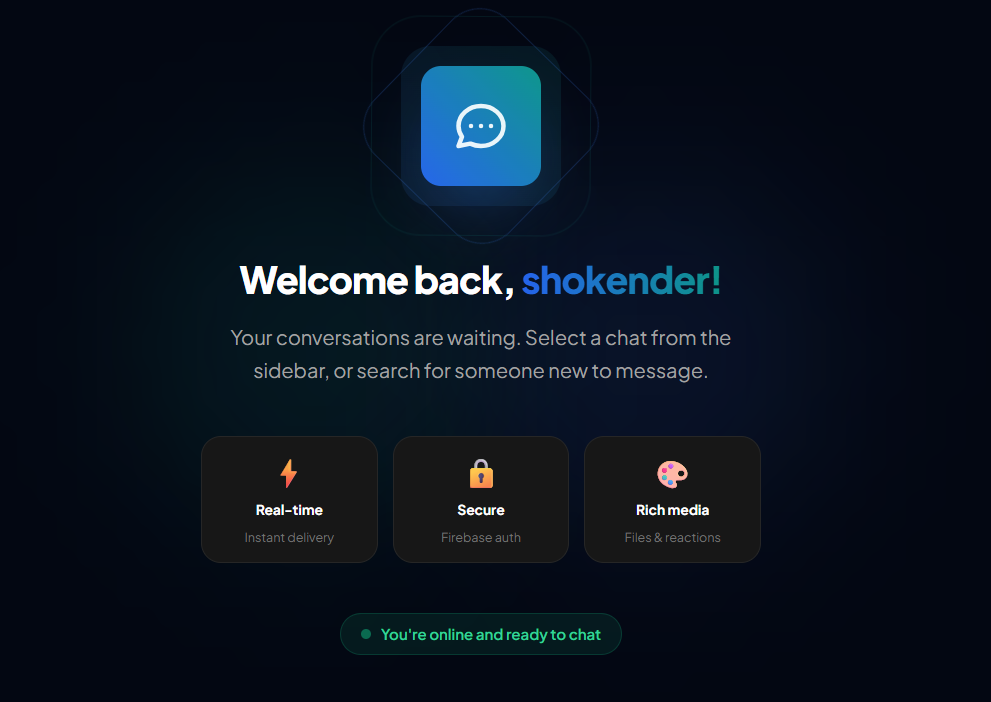
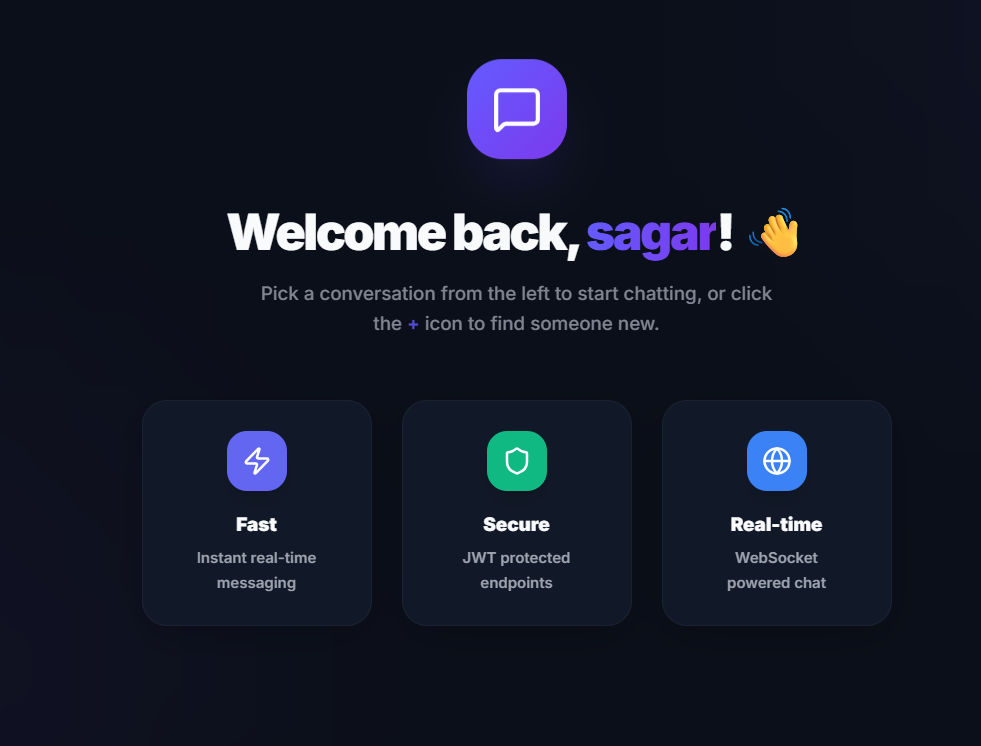
Update project details and replace ConvoX image

diff --git a/projects.html b/projects.html
@@ -279,34 +279,6 @@
                 </div>
             </div>
             <div class="grid grid-cols-1 md:grid-cols-2 gap-8">
-                <!-- KickSense -->
-                <div class="project-card bg-white/10 backdrop-blur-lg rounded-lg p-4 shadow-lg hover:shadow-2xl transition-all duration-300 transform hover:-translate-y-1 border border-transparent hover:border-[#f8e1e4] relative overflow-hidden group"
-                    data-aos="fade-up">
-                    <div
-                        class="absolute inset-0 bg-gradient-to-r from-transparent via-white/20 to-transparent -translate-x-full group-hover:translate-x-full transition-transform duration-1000">
-                    </div>
-                    <div
-                        class="thumbnail-container relative overflow-hidden rounded-lg mb-4 group-hover:shadow-md transition-all duration-300">
-                        <img src="assets/images/chatbot (1).jpg" alt="KickSense Project"
-                            class="w-full h-48 object-cover rounded-lg transform group-hover:scale-105 transition-transform duration-500">
-                        <div
-                            class="absolute inset-0 bg-gradient-to-t from-black/50 to-transparent opacity-0 group-hover:opacity-100 transition-opacity duration-300">
-                        </div>
-                    </div>
-                    <h2
-                        class="text-xl font-semibold mb-2 text-[#2d3748] group-hover:text-[#1a202c] transition-colors duration-300">
-                        KickSense</h2>
-                    <p class="text-gray-600 mb-2 group-hover:text-gray-700 transition-colors duration-300">Full-stack
-                        sneaker price tracking platform with real-time alerts</p>
-                    <div class="flex gap-3 flex-wrap">
-                        <button class="view-details-btn" data-project="kicksense">View Details</button>
-                        <a href="https://github.com/shoken-der/KickSense-Full-Stack-Sneaker-Price-Tracking-Platform"
-                            target="_blank" rel="noopener noreferrer" class="view-details-btn flex items-center gap-2">
-                            <i class="fab fa-github"></i> GitHub
-                        </a>
-                    </div>
-                </div>
-
                 <!-- Bank Account Console -->
                 <div class="project-card bg-white/10 backdrop-blur-lg rounded-lg p-4 shadow-lg hover:shadow-2xl transition-all duration-300 transform hover:-translate-y-1 border border-transparent hover:border-[#f8e1e4] relative overflow-hidden group"
                     data-aos="fade-up" data-aos-delay="300">
@@ -323,9 +295,9 @@
                     </div>
                     <h2
                         class="text-xl font-semibold mb-2 text-[#2d3748] group-hover:text-[#1a202c] transition-colors duration-300">
-                        Bank Account Console</h2>
-                    <p class="text-gray-600 mb-2 group-hover:text-gray-700 transition-colors duration-300">Simulates
-                        Simple Bank Account Facilities using OOPS</p>
+                        BankiFy</h2>
+                    <p class="text-gray-600 mb-2 group-hover:text-gray-700 transition-colors duration-300">Core banking
+                        backend API using Spring Boot, REST, and JPA</p>
                     <div class="flex gap-3 flex-wrap">
                         <button class="view-details-btn" data-project="jenkins">View Details</button>
                         <a href="https://github.com/shoken-der/BankiFy" target="_blank" rel="noopener noreferrer"
@@ -391,39 +363,30 @@
     <script>
         // Project details data
         const projectDetails = {
-            kicksense: {
-                title: "KickSense",
-                description: "Full-stack sneaker price tracking platform with real-time alerts and market insights.",
-                details: [
-                    "Designed and built a scalable full-stack platform tracking 50+ sneaker SKUs, enabling real-time price monitoring and market insights. Improved overall processing efficiency by ~40%",
-                    "Implemented a real-time notification system (email) to deliver personalized price-drop alerts to users",
-                    "Developed a modular backend architecture with RESTful APIs to support high-volume product and user data efficiently"
-                ],
-                tags: ["React", "NodeJS", "RESTful APIs", "Email Notifications"],
-                image: "assets/images/chatbot (1).jpg"
-            },
+
             convox: {
                 title: "ConvoX – Real-Time Messaging Platform",
-                description: "Real-time, bi-directional communication platform featuring Socket.io and secure Firebase Authentication.",
+                description: "Real-time chat platform using React, Spring Boot, WebSockets and MySQL.",
                 details: [
-                    "Engineered a robust MERN stack application featuring real-time communication via Socket.io and secure Firebase Authentication.",
-                    "Developed a low-latency messaging engine supporting instant message delivery, live typing indicators, and real-time read receipts with <50ms average latency.",
-                    "Implemented complex UI patterns including message threading (nested replies), emoji reactions, and a secure 10-minute message editing window.",
-                    "Optimized backend performance using Mongoose for efficient MongoDB indexing and paginated queries, reducing initial frontend load time by 40%.",
-                    "Integrated Cloudinary for distributed media storage with specialized Multer middleware."
+                    "Built ConvoX, a real-time chat platform using React, Spring Boot, WebSockets and MySQL, delivering sub-50ms message latency across concurrent sessions.",
+                    "Engineered secure, stateless authentication with Spring Security and JWT, safeguarding APIs and enabling scalable, role-based access control.",
+                    "Developed event-driven real-time features (typing indicators, read receipts, replies, reactions, media messaging), ensuring consistent cross-client synchronization.",
+                    "Reduced chat load latency and UI flicker by optimizing state management, caching, and pagination, enabling smooth, navigation.",
+                    "Outcome: Optimized media delivery pipeline with asynchronous processing and compression, improving load performance and enhancing UX across low-bandwidth conditions."
                 ],
-                tags: ["React", "NodeJS", "Express", "MongoDB", "Socket.io"],
+                tags: ["React.js", "Spring Boot", "Spring Security", "JWT", "WebSockets", "MySQL", "REST APIs"],
                 image: "assets/images/ConvoX.png"
             },
             jenkins: {
-                title: "Bank Account Console",
-                description: "Similates Simple Bank Account Facilities using OOPS",
+                title: "BankiFy",
+                description: "Core banking backend operations using Spring Boot, REST APIs, and JPA.",
                 details: [
-                    "Developed a console application simulating bank account operations using Java OOP principles",
-                    "Implemented features like account creation, balance inquiry, deposits, and withdrawls",
-                    "Utilized Java's OOP concepts such as iheritance, polymorphism, and encapsulation to ensure code reusablity and maintainability",
+                    "Architected and delivered 15+ RESTful APIs using Spring Boot for core banking operations (accounts, transactions, transfers), enforcing ACID-compliant workflows with @Transactional to ensure consistency under concurrent requests.",
+                    "Designed a scalable backend using layered architecture (Controller–Service–Repository) with Spring Data JPA and Hibernate, applying DTO abstraction to decouple business logic from persistence models and enhance security.",
+                    "Implemented centralized exception handling with @ControllerAdvice, standardizing error responses into structured formats and improving API reliability and client-side integration.",
+                    "Outcome: Improved system robustness and developer efficiency through comprehensive API validation, optimized query performance, and consistent HTTP standards across all endpoints."
                 ],
-                tags: ["JAVA", "OOPS"],
+                tags: ["Java", "Spring Boot", "Spring Data JPA", "Hibernate ORM", "MySQL", "REST API Design", "OOPS"],
                 image: "assets/images/jconsole.jpg"
             }
         };
